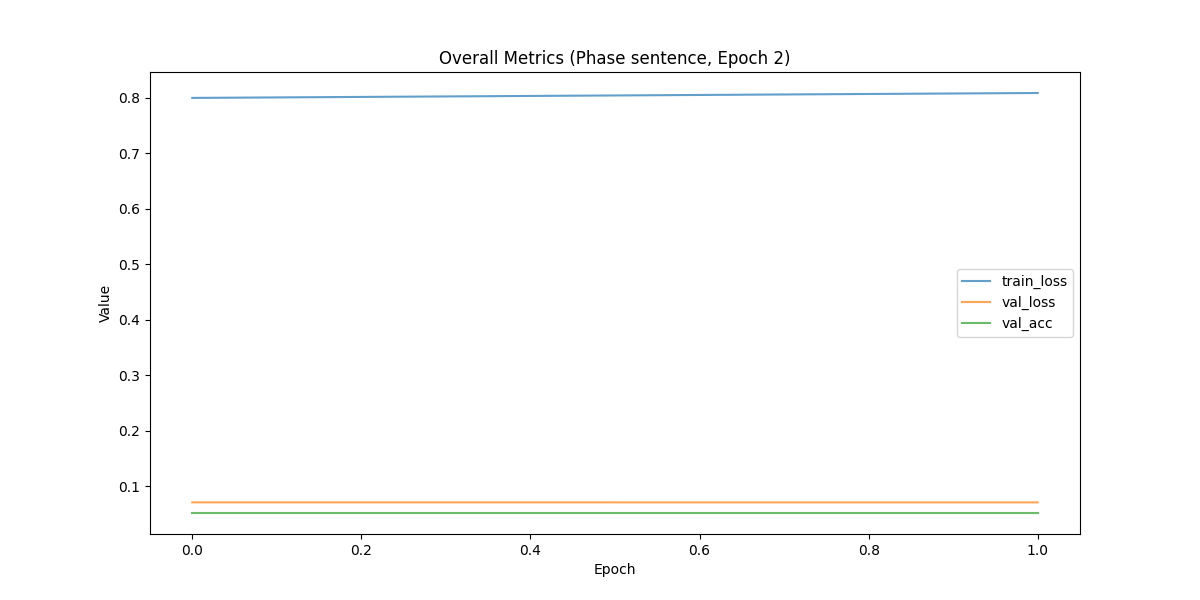
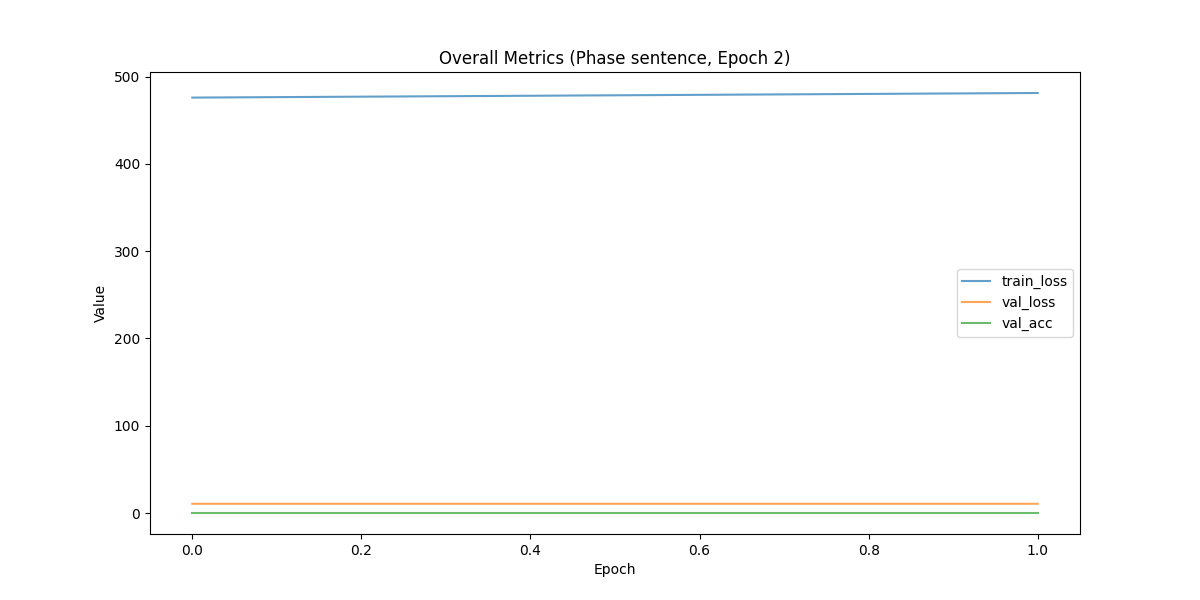
Working version

diff --git a/src/train/trainer.py b/src/train/trainer.py
@@ -94,7 +94,7 @@ class CoGraphTrainer:
         dist.all_gather(all_corrects, correct_tensor)
         
         # Sum across processes
-        total_loss = sum(l.item() for l in all_losses)
+        total_loss = sum(l.item() for l in all_losses) / self.world_size
         total_samples = sum(s.item() for s in all_samples)
         total_correct = sum(c.item() for c in all_corrects)
         
@@ -269,8 +269,12 @@ class CoGraphTrainer:
                         'epoch': f'{epoch}/{self.num_epochs}'  # Add epoch counter
                     })
         
+        torch.distributed.barrier()
         # Gather metrics from all processes
+        # Divide total loss by number of batches
+        total_loss = total_loss / len(self.train_loader)
         total_loss, total_samples, _ = self._gather_metrics(total_loss, total_samples)
+        torch.distributed.barrier()
         
         # Plot unique classes per batch on rank 0
         if self.rank == 0:
@@ -284,7 +288,7 @@ class CoGraphTrainer:
                 self.plot_dir
             )
         
-        return total_loss / total_samples
+        return total_loss
     
     def validate(self, epoch: int, phase: int) -> Tuple[float, float]:
         """Validate the model on the validation set."""
@@ -333,11 +337,14 @@ class CoGraphTrainer:
                 total_loss += loss.item()
                 total_samples += batch_size
         
+        torch.distributed.barrier()
         # Gather metrics from all processes
+        # Divide total loss by number of batches
+        total_loss = total_loss / len(self.val_loader)
         total_loss, total_samples, correct = self._gather_metrics(
             total_loss, total_samples, correct
         )
-        
+        torch.distributed.barrier()
         # Plot validation metrics on rank 0
         if self.rank == 0:
             # Concatenate logits and compute probabilities
@@ -376,7 +383,7 @@ class CoGraphTrainer:
             ece = compute_ece(all_probs, all_labels_np)
             self.logger.info(f"[Phase {phase}, Epoch {epoch+1}] Expected Calibration Error (ECE): {ece:.4f}")
         
-        return total_loss / total_samples, correct / total_samples
+        return total_loss, correct / total_samples
     
     def test(self) -> Tuple[float, float]:
         """Test the model on the test set."""
@@ -416,11 +423,14 @@ class CoGraphTrainer:
                 total_samples += batch_size
         
         # Gather metrics from all processes
+        # Divide total loss by number of batches
+        total_loss = total_loss / len(self.test_loader)
+        torch.distributed.barrier()
         total_loss, total_samples, correct = self._gather_metrics(
             total_loss, total_samples, correct
         )
-        
-        return total_loss / total_samples, correct / total_samples
+        torch.distributed.barrier()
+        return total_loss, correct / total_samples
         
         # Final test if test loader provided
         if self.test_loader:
